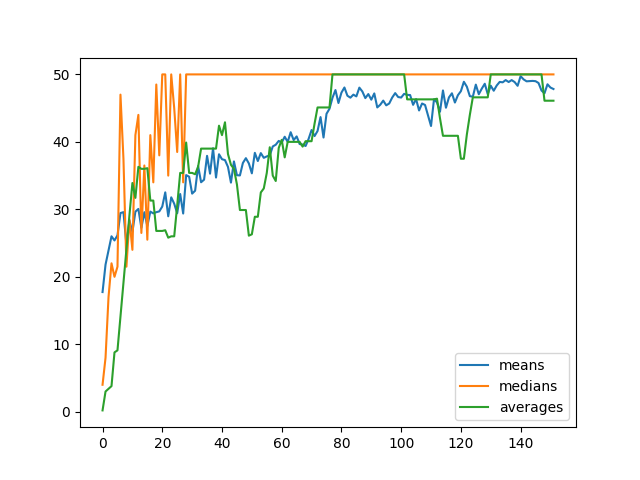
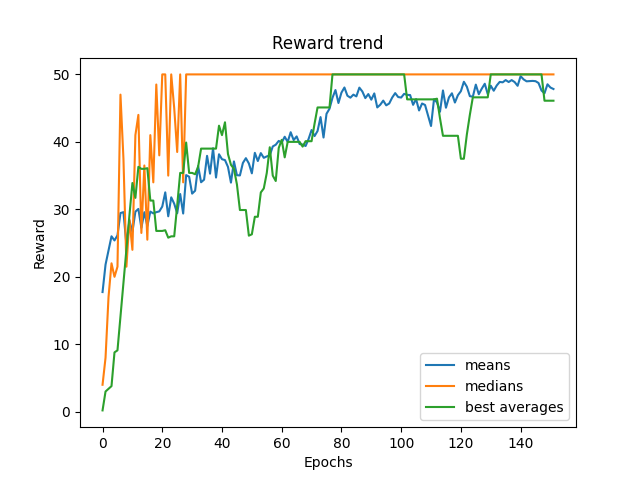
Add comments and typing

diff --git a/agents.py b/agents.py
@@ -1,40 +1,43 @@
 import numpy as np
+from typing import Any, List, Tuple
+
 from classifiers import MLPClassifier
+import environment
 
 
 class Agent:
-  def __init__(self, n_actions):
+  def __init__(self, n_actions: int):
     self.n_actions = n_actions
     
-  def action(self):
+  def action(self) -> int:
     return np.random.randint(self.n_actions)
     
-  def reevaluate(self, info):
+  def reevaluate(self, info: Any):
     pass
 
 
 class CrossEntropyAgent(Agent):
-  def __init__(self, n_actions, policy, state):
+  def __init__(self, n_actions: int, policy: Any, state: np.ndarray):
     super().__init__(n_actions)
     self.policy = policy
     self.reevaluate(state)
     self.history_actions = []
     self.history_states = []
     
-  def action(self):
+  def action(self) -> int:
     proba = self.policy.predict_proba(self.state)[0]
     action = np.random.choice(self.n_actions, p=proba)
-    #print(proba)
     self.history_actions += [action]
     self.history_states += [self.state[0]]
     return action
     
-  def reevaluate(self, info):
+  def reevaluate(self, info: np.ndarray):
     self.state = info
 
  
 class CrossEntropyFitter:
-  def __init__(self, env, n_sessions=50, n_elites=10):
+  def __init__(self, env: environment.Environment,
+               n_sessions: int = 50, n_elites: int = 10):
     self.env = env
     self.n_sessions = n_sessions
     self.n_elites = n_elites
@@ -50,30 +53,36 @@ class CrossEntropyFitter:
     y = np.arange(self.env.N_ACTIONS)
     self.policy.partial_fit(X, y, list(range(self.env.N_ACTIONS)))
     
-  def _simulate_session(self, random):
-    if random:
-      self.env.reset()
-      agent = Agent(self.env.N_ACTIONS)
-    else:
-      agent = CrossEntropyAgent(self.env.N_ACTIONS, self.policy, self.env.reset())
-    done = False
+  def _simulate_session(self) -> Tuple[CrossEntropyAgent, int]:
+    agent = CrossEntropyAgent(self.env.N_ACTIONS, self.policy, self.env.reset())
     total_reward = 0
+    done = False
     while not done:
-      state, reward, done, _ = self.env.step_scalar_action(agent.action())
+      state, reward, done = self.env.step_scalar_action(agent.action())
       agent.reevaluate(state)
       total_reward += reward
     return agent, total_reward
     
-  def _refit(self, elites):
+  def _refit(self, elites: List[CrossEntropyAgent]):
     X = np.array(np.vstack([elite.history_states for elite in elites]))
     y = np.array(sum([elite.history_actions for elite in elites], []))
     self.policy.partial_fit(X, y)
     
-  def fit_epoch(self, random=False, verbose=()):
+  def fit_epoch(self, verbose: Tuple[str] = ()):
+    """
+    Args:
+      verbose is a tuple of possible options, which are:
+        'history' - print history of actions in each agent's simulated session;
+        'rewards' - print rewards for all the sessions in the epoch,
+            as well as their mean and median;
+        'coefs' - print classifier's coefficients after every refitting.
+
+    Returns: the best performer of the epoch.
+    """
     agents = []
     rewards = []
     for _ in range(self.n_sessions):
-      new_agent, reward = self._simulate_session(random)
+      new_agent, reward = self._simulate_session()
       agents += [new_agent]
       rewards += [reward]
 

diff --git a/environment.py b/environment.py
@@ -1,5 +1,7 @@
 import gym
+import numpy as np
 import pygame
+from typing import List, Tuple
 
 import objects
 import physics
@@ -11,7 +13,7 @@ class Environment(gym.Env):
   MIN_REWARD = 0
 
   def __init__(self, pygame_render: bool = True):
-    super(Environment, self).__init__()
+    super().__init__()
     
     self.reset()
     
@@ -25,13 +27,13 @@ class Environment(gym.Env):
     else:
       self._pymunk_options = physics.get_print_options()
     
-  def reset(self):
+  def reset(self) -> np.ndarray:
     self._objects = objects.Objects()
     self._physics = physics.Simulation(self._objects)
     self.total_reward = 0
     return self._objects.get_info()
 
-  def render_text(self, text, position):
+  def render_text(self, text: str, position: Tuple[int, int]):
     if not self._pygame_render:
       return
     pygame_text = self._font.render(text, True, pygame.Color('black'))
@@ -49,8 +51,18 @@ class Environment(gym.Env):
     if self._pygame_render:
       pygame.display.flip()
       self._clock.tick(50)
+
+  def _calculate_reward(self) -> Tuple[int, bool]:
+    box_state = self._objects.box_state()
+    done = box_state == objects.BoxState.OUT_OF_BOUNDS
+    reward = 1 if box_state == objects.BoxState.TOUCHES_FLOOR else 0
+    self.total_reward += reward
+    if self.total_reward >= self.MAX_REWARD:
+      self.total_reward = self.MAX_REWARD
+      done = True
+    return reward, done
     
-  def step(self, action):
+  def step(self, action: List[int]) -> Tuple[np.ndarray, int, bool]:
     for index, cur_action in zip([0, 2], action):
       if cur_action == 1:
         if index == 0:
@@ -65,24 +77,10 @@ class Environment(gym.Env):
         pass
       else:
         raise Exception('Invalid action')
-    
+
     self._physics.step()
+    return self._objects.get_info(), *self._calculate_reward()
     
-    done = False
-    box_state = self._objects.box_state()
-    if box_state == objects.BoxState.DEFAULT:
-      reward = 0
-    elif box_state == objects.BoxState.TOUCHES_FLOOR:
-      reward = 1
-    else:
-      reward = 0
-      done = True
-    self.total_reward += reward
-    if self.total_reward >= self.MAX_REWARD:
-      done = True
-      
-    return self._objects.get_info(), reward, done, []
-    
-  def step_scalar_action(self, action):
+  def step_scalar_action(self, action: int) -> Tuple[np.ndarray, int, bool]:
     return self.step([action // 4, action % 4])
 

diff --git a/objects.py b/objects.py
@@ -36,9 +36,6 @@ def create_rect(
   shape = _create_shape(position,
                         lambda body: pymunk.Poly.create_box(body, size),
                         mass, is_static)
-  shape.properties = {}
-  shape.properties['type'] = 1
-  shape.properties['width'], shape.properties['height'] = size
   return shape
     
     
@@ -49,9 +46,6 @@ def create_circle(
   shape = _create_shape(position,
                         lambda body: pymunk.Circle(body, radius),
                         mass, is_static)
-  shape.properties = {}
-  shape.properties['type'] = 2
-  shape.properties['width'], shape.properties['height'] = radius, radius
   return shape
 
 
@@ -77,12 +71,12 @@ class Objects:
     self.all_shapes = self.static_shapes + self.dynamic_shapes
     self.joints = self.arm.joints
     
-  def get_info(self):
+  def get_info(self) -> np.ndarray:
     num_objects = len(self.all_shapes)
     info = np.zeros((num_objects, NUM_SHAPE_FEATURES))
     for i in range(num_objects):
       info[i] = np.array(shape_info(self.all_shapes[i]))
-    return info.T.reshape((1,-1))
+    return info.T.reshape((1, -1))
     
   def box_state(self) -> BoxState:
     result = BoxState.DEFAULT
@@ -100,25 +94,9 @@ NUM_SHAPE_FEATURES = 4
 
 
 def shape_info(shape: pymunk.Shape):
-  # position_x, position_y, mass, velocity_x, velocity_y, kinetic_energy,
-  # width, height, type, is_static
   return [
       *shape.body.position,
-      #shape.body.mass,
       *shape.body.velocity,
-      #shape.body.kinetic_energy,
-      #shape.properties['width'],
-      #shape.properties['height'],
-      #shape.properties['type'],
-      #int(shape.body.body_type == pymunk.Body.STATIC),
   ]
-
-  
-def discretize(info: np.ndarray, lows, highs, steps):
-  result = np.zeros_like(info)
-  for i, row in enumerate(info):
-    bins = np.arange(lows[i], highs[i] + steps[i], steps[i])
-    result[i] = np.digitize(row, bins)
-  return result.reshape((1, -1))
 
     

diff --git a/plots.py b/plots.py
@@ -1,14 +1,16 @@
+import sys
 import matplotlib.pyplot as plt
 
-FILENAME = 'results'
+IN_FILENAME = ('results' if len(sys.argv) <= 1 else sys.argv[1]) + '.txt'
+OUT_FILENAME = ('results' if len(sys.argv) <= 1 else
+                sys.argv[1] if len(sys.argv) <= 2 else sys.argv[2]) + '.png'
 
-with open(FILENAME + '.txt', 'r') as file:
+with open(IN_FILENAME, 'r') as file:
   for name in ['means', 'medians', 'best averages']:
     y = [float(x) for x in file.readline().strip()[1:-1].split(', ')]
-    print(y)
     plt.plot(range(len(y)), y, label=name)
-  plt.ylabel('Reward')
   plt.xlabel('Epochs')
+  plt.ylabel('Reward')
   plt.title('Reward trend')
   plt.legend()
-  plt.savefig(FILENAME + '.png')
+  plt.savefig(OUT_FILENAME)

diff --git a/main.py b/main.py
@@ -23,7 +23,7 @@ def run_interactive_simulation():
       if event.type == pygame.QUIT:
         running = False
   
-    _, _, done, _ = env.step([
+    _, _, done = env.step([
           process_keys([pygame.K_SPACE, pygame.K_LEFT, pygame.K_RIGHT]),
           process_keys([pygame.K_f, pygame.K_a, pygame.K_d]),
     ])
@@ -55,7 +55,7 @@ def run_rl():
         if event.type == pygame.QUIT:
           running = False
 
-      info, reward, done, _ = env.step_scalar_action(best.action())
+      info, reward, done = env.step_scalar_action(best.action())
       total_reward += reward
       best.reevaluate(info)
       env.render_clear()

diff --git a/classifiers.py b/classifiers.py
@@ -5,5 +5,6 @@ from sklearn import neural_network
 class MLPClassifier(neural_network.MLPClassifier):
   def _initialize(self, y, layer_units, dtype):
     super()._initialize(y, layer_units, dtype)
-    self.coefs_[-1] = np.ones((layer_units[1], layer_units[2])) / layer_units[1]
-    self.intercepts_[-1] = np.zeros((layer_units[2],))
+    # We want initial classifier output to behave like uniform distribution for any input.
+    self.coefs_[-1] = np.ones((layer_units[-2], layer_units[-1])) / layer_units[-2]
+    self.intercepts_[-1] = np.zeros((layer_units[-1],))

diff --git a/physics.py b/physics.py
@@ -29,7 +29,6 @@ class Simulation:
     for joint in objects.joints:
       self.space.add(joint)
     
-    
   def step(self):
     self.space.step(0.02)
     
